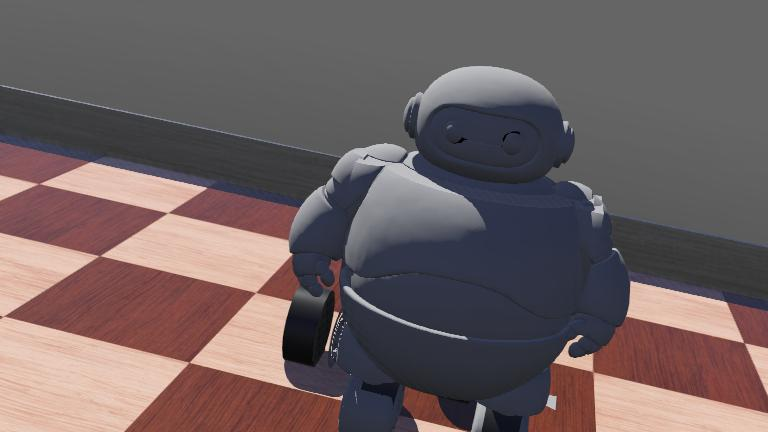
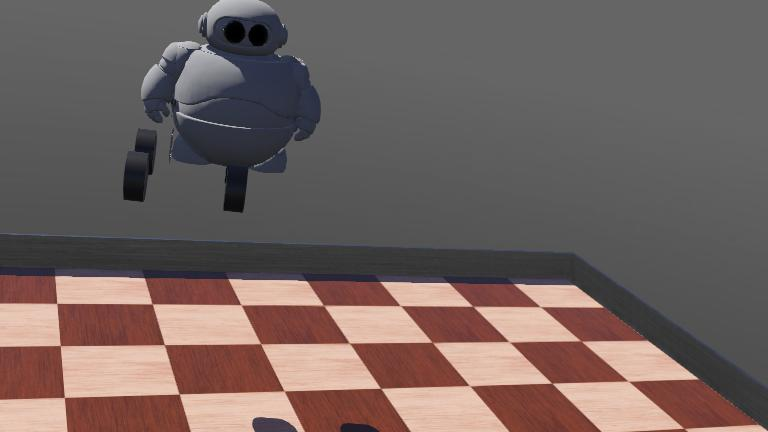
working on adding 3d baymax

diff --git a/controllers/desk_buddy_controller/desk_buddy_controller.py b/controllers/desk_buddy_controller/desk_buddy_controller.py
@@ -90,6 +90,13 @@ class DeskBuddy(Robot):
         self.speaker.setLanguage("en-US")
         self.motor = self.getDevice("tilt_motor")
         self.motor.setPosition(0.0)
+
+        #hands 
+        self.left_hand_motor = self.getDevice("left_arm_motor")
+        self.left_hand_motor.setPosition(0.0)
+
+        self.right_hand_motor = self.getDevice("right_arm_motor")
+        self.right_hand_motor.setPosition(0.0)
         
         # Wheel motors
         self.left_wheel = self.getDevice("left_wheel_motor")
@@ -334,14 +341,17 @@ class DeskBuddy(Robot):
         
         with self.action_lock:
             self.motor.setPosition(0.5)
+            self.right_hand_motor.setPosition(0.5)
         time.sleep(0.5)
         
         with self.action_lock:
             self.motor.setPosition(-0.5)
+            self.right_hand_motor.setPosition(-0.5)
         time.sleep(0.5)
         
         with self.action_lock:
             self.motor.setPosition(0.0)
+            self.right_hand_motor.setPosition(0.0)
         time.sleep(0.5)
         
         print("Wave complete!")
